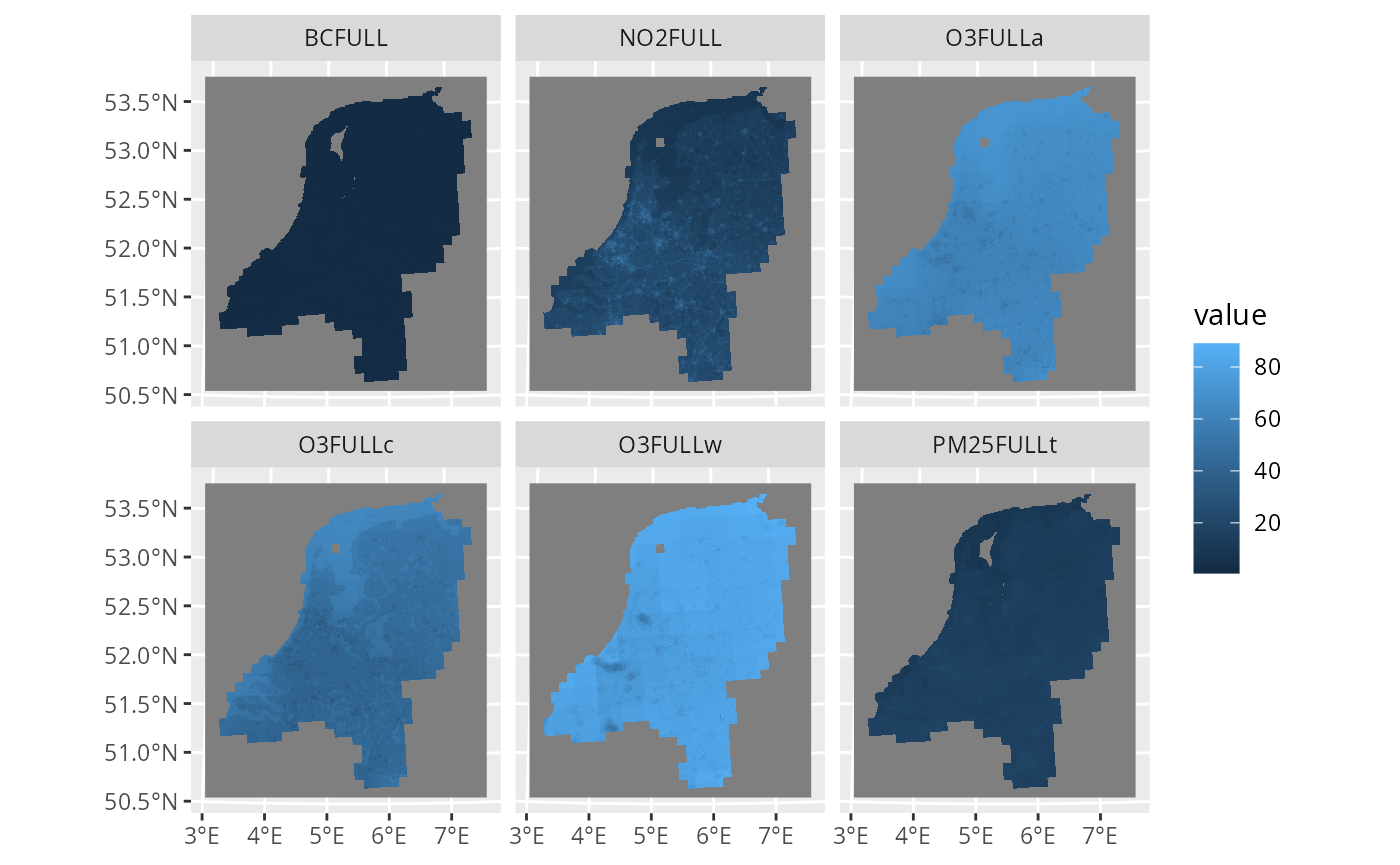
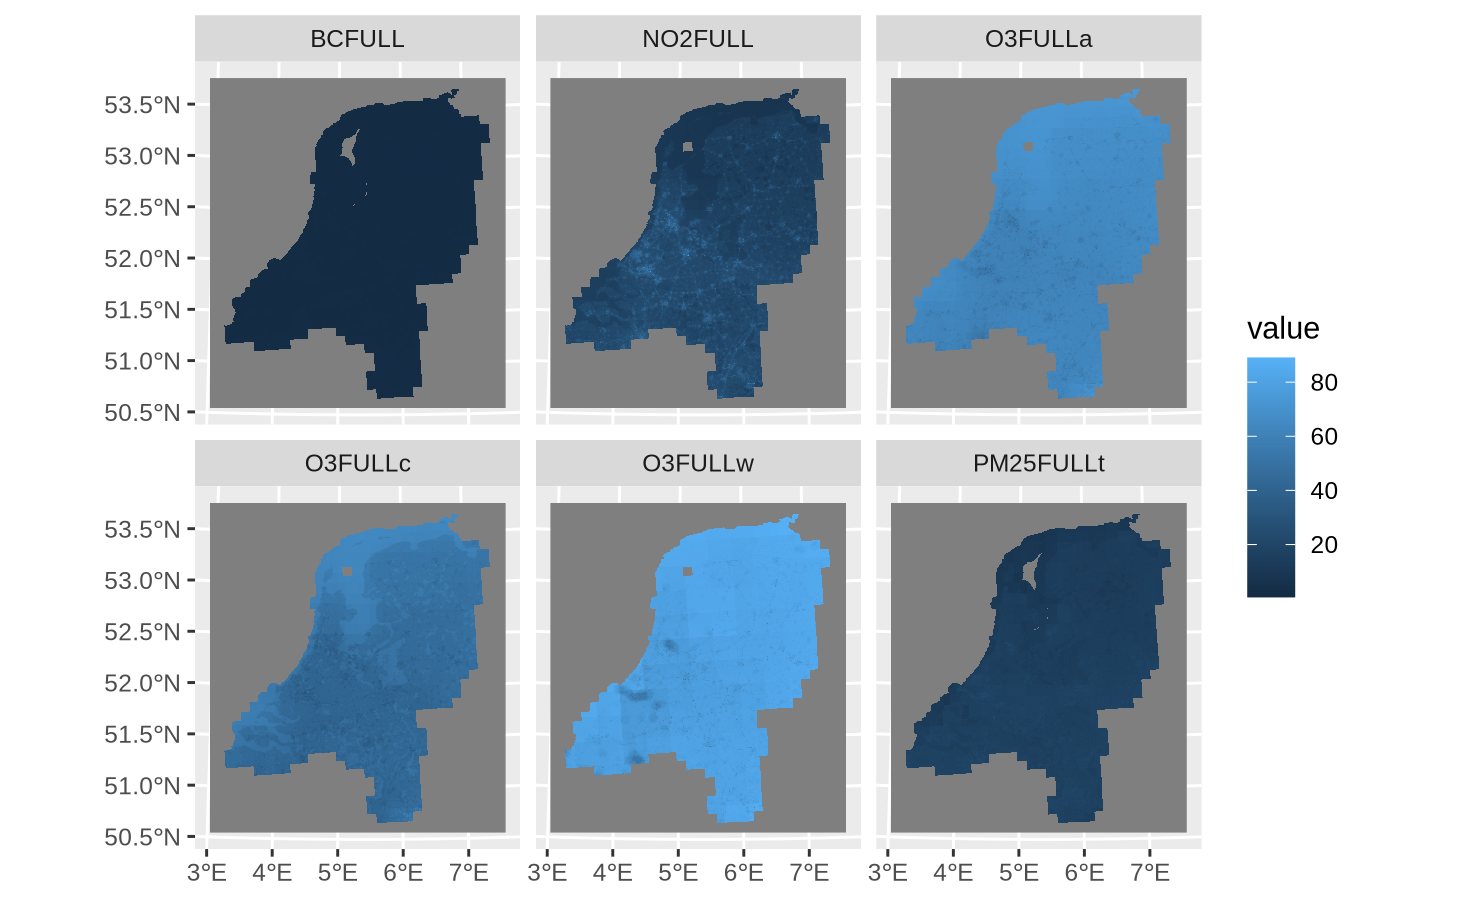
Built site for postcodElapse@0.0.0.9770:

diff --git a/articles/postcodElapse.html b/articles/postcodElapse.html
@@ -232,7 +232,7 @@ below.</p>
 <span>  <span class="fu"><a href="https://dieghernan.github.io/tidyterra/reference/geom_spatraster.html" class="external-link">geom_spatraster</a></span><span class="op">(</span>data <span class="op">=</span> <span class="va">elapse</span><span class="op">)</span> <span class="op">+</span></span>
 <span>  <span class="fu"><a href="https://ggplot2.tidyverse.org/reference/facet_wrap.html" class="external-link">facet_wrap</a></span><span class="op">(</span><span class="op">~</span> <span class="va">lyr</span><span class="op">)</span></span>
 <span><span class="co">#&gt; <span style="color: #0000BB;">&lt;SpatRaster&gt;</span> resampled to <span style="color: #0000BB;">500490</span> cells.</span></span></code></pre></div>
-<p><img src="postcodElapse_files/figure-html/plotting%20ELAPSE-1.png" class="r-plt" alt="" width="700"></p>
+<p><img src="postcodElapse_files/figure-html/plotting%20ELAPSE-1.png" class="r-plt" alt="" width="729.166666666667"></p>
 </div>
 </div>
   </main><aside class="col-md-3"><nav id="toc" aria-label="Table of contents"><h2>On this page</h2>
